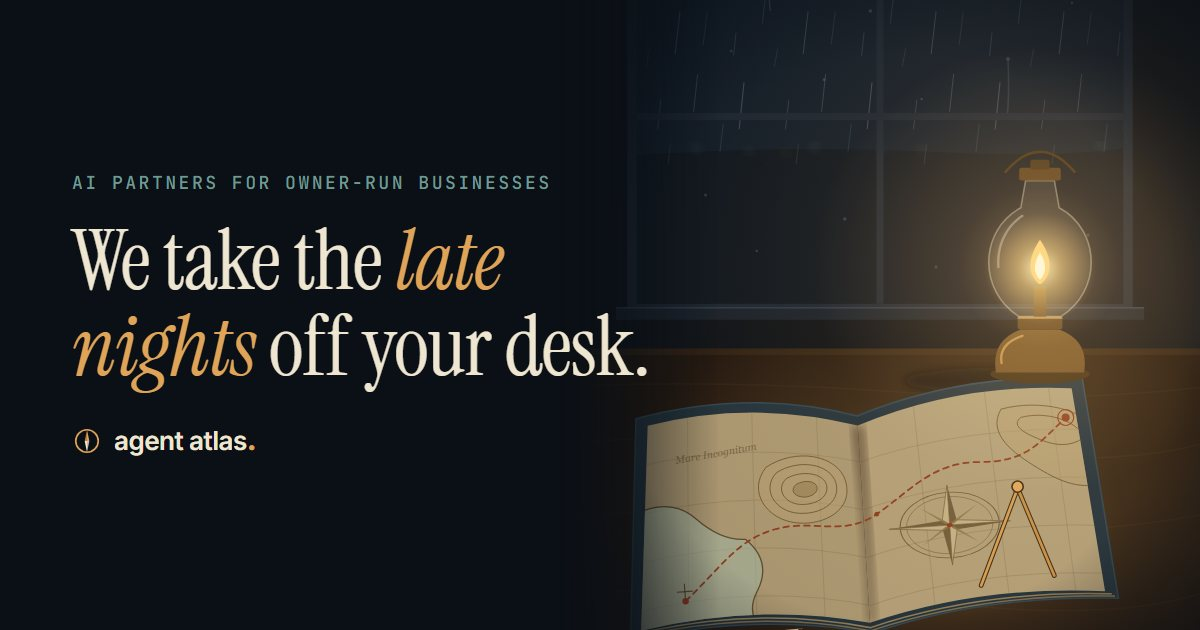
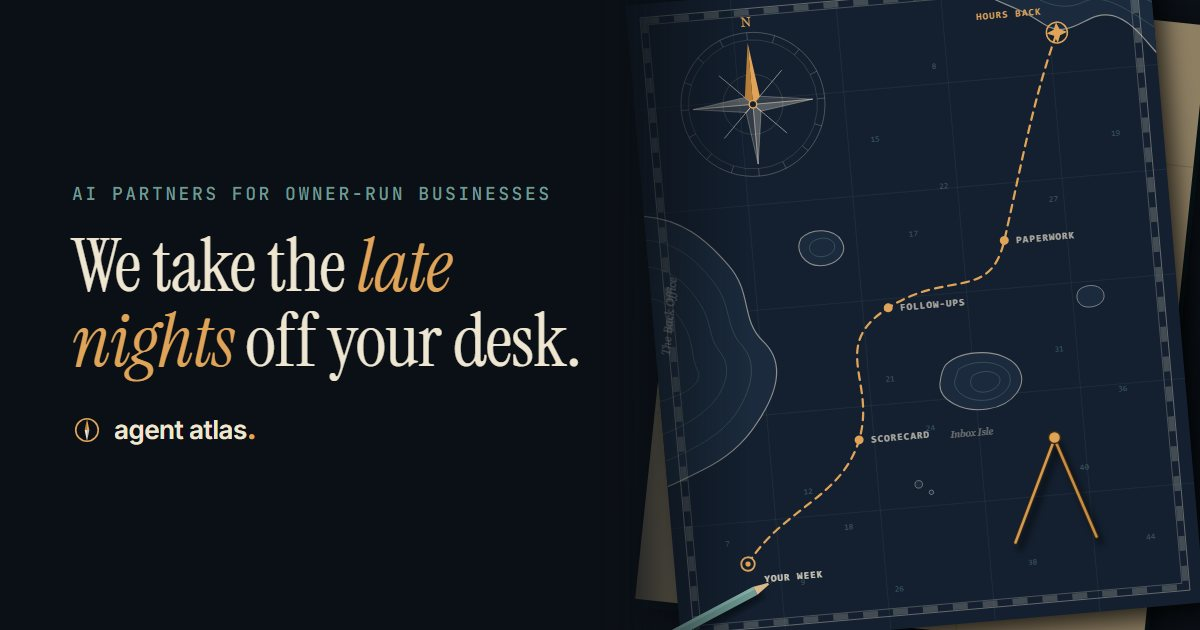
Replace the lamp-lit hero with a top-down navigator's chart
Drops the lantern, rainy window and warm glow so the site no longer echoes
another brand's look. The hero is now a dark chart seen from above, with a
compass rose, soundings, and a brass route that plots itself from "your
week" through the work we take off the desk to "hours back". The share
image is rebuilt from the new art.

diff --git a/assets/site.css b/assets/site.css
@@ -116,13 +116,13 @@ h1, h2, h3 { margin: 0; font-weight: 400; }
 .nav-links a:hover { color: var(--parchment); }
 .nav .btn .long { display: none; }
 
-/* ---------- Hero art (fixed lamp-lit chart) ---------- */
+/* ---------- Hero art (the chart) ---------- */
 .hero-art {
   position: absolute; z-index: 0;
   top: 0; left: 0; width: 100%; height: 100svh; min-height: 620px;
   overflow: hidden; pointer-events: none;
 }
-.hero-art img { width: 100%; height: 100%; object-fit: cover; object-position: 66% 62%; }
+.hero-art img { width: 100%; height: 100%; object-fit: cover; object-position: 50% 40%; }
 .hero-art::after {
   content: ""; position: absolute; inset: 0;
   background: rgba(11, 16, 22, .74);
@@ -448,7 +448,7 @@ section { scroll-margin-top: calc(var(--nav-h) + 8px); }
   .card { padding: 20px 26px 26px; }
 }
 
-/* ---------- Desktop: the lamp stays put on the right ---------- */
+/* ---------- Desktop: the chart stays put on the right ---------- */
 @media (min-width: 1000px) {
   :root { --gutter: 40px; }
   .nav { padding: 0 40px; }
@@ -459,7 +459,7 @@ section { scroll-margin-top: calc(var(--nav-h) + 8px); }
     -webkit-mask-image: linear-gradient(90deg, transparent 0, #000 22%);
     mask-image: linear-gradient(90deg, transparent 0, #000 22%);
   }
-  .hero-art img { object-position: 50% 62%; }
+  .hero-art img { object-position: 50% 50%; }
   .hero-art::after { background: rgba(11, 16, 22, .1); }
   .split { width: 50%; padding-left: clamp(40px, 6vw, 96px); padding-right: 32px; }
   .hero { padding-top: calc(var(--nav-h) + 24px); }

diff --git a/index.html b/index.html
@@ -17,7 +17,7 @@
 <meta property="og:image" content="https://agent-atlas.co/assets/og.jpg">
 <meta property="og:image:width" content="1200">
 <meta property="og:image:height" content="630">
-<meta property="og:image:alt" content="An open chart on a table at night, lit by a warm lamp, next to the line: We take the late nights off your desk.">
+<meta property="og:image:alt" content="A navigator's chart with a brass route plotted from your week to hours back, next to the line: We take the late nights off your desk.">
 <meta name="twitter:card" content="summary_large_image">
 
 <link rel="icon" href="/favicon.svg" type="image/svg+xml">
@@ -63,7 +63,7 @@
     <source srcset="/assets/hero.webp" type="image/webp">
     <img src="/assets/hero.jpg" alt="" width="1600" height="2000" fetchpriority="high">
   </picture>
-  Keep the image portrait (about 4:5) with the lamp right of center.
+  Keep the image portrait (about 4:5).
 -->
 <div class="hero-art" aria-hidden="true">
   <img src="/assets/hero-chart-table.svg" alt="" width="800" height="1000" fetchpriority="high">
